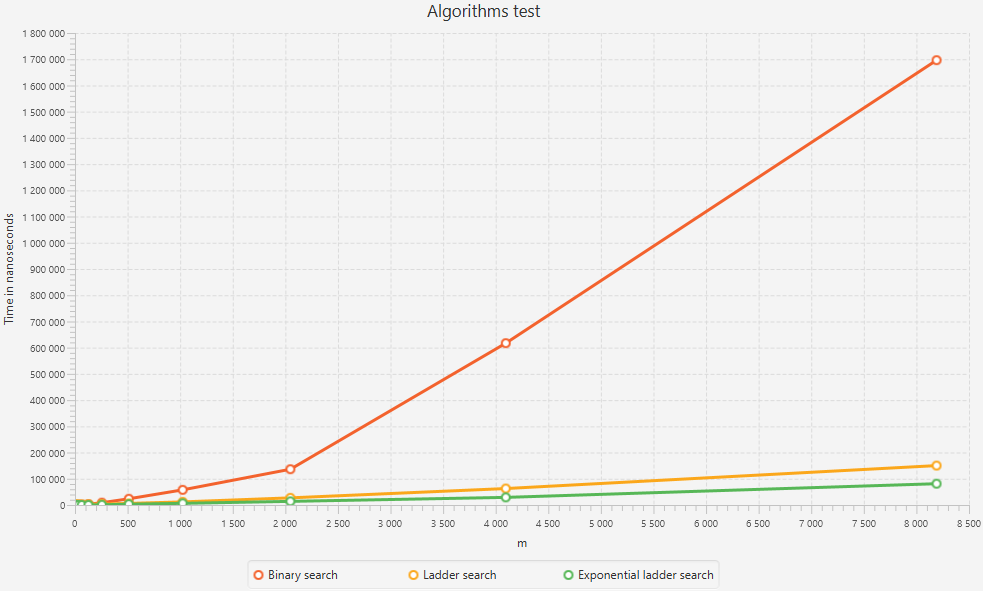
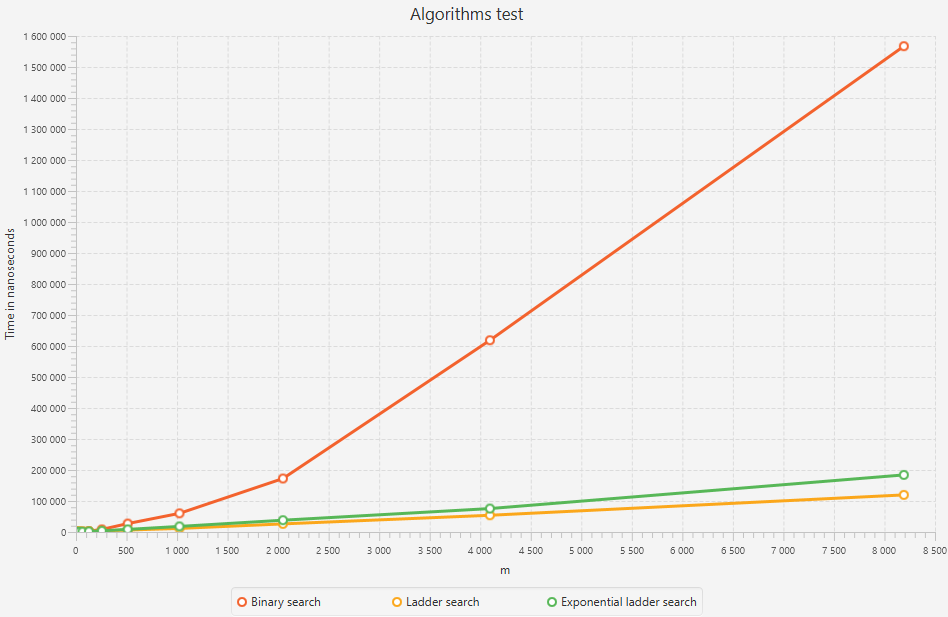
fix

diff --git a/src/main/java/ru/ns/alg_lab/Main.java b/src/main/java/ru/ns/alg_lab/Main.java
@@ -82,11 +82,11 @@ public class Main extends Application {
      * Test each search algorithm and results into chart.
      **/
     private static void testAlgosAndAddResultToChart(LineChart<Number, Number> lineChart) {
-        int times = 1000;
+        int times = 50000000;
 
-        runTestsForAlgo(Algorithms::basicBinary, times);
-        runTestsForAlgo(Algorithms::ladder, times);
-        runTestsForAlgo(Algorithms::expLadder, times);
+        runTestsForAlgo(Algorithms::basicBinary, 10);
+        runTestsForAlgo(Algorithms::ladder, 10);
+        runTestsForAlgo(Algorithms::expLadder, 10);
 
         List<Pair<Number, Number>> binaryChart = runTestsForAlgo(Algorithms::basicBinary, times);
         List<Pair<Number, Number>> ladderChart = runTestsForAlgo(Algorithms::ladder, times);
@@ -104,7 +104,7 @@ public class Main extends Application {
      * @return list of (input data amount -> algorithm's execution time)
      */
     private static List<Pair<Number, Number>> runTestsForAlgo(SearchAlgo algo, int times) {
-        int maxDegree = 13;
+        int maxDegree = 5;
         int n = (int) Math.pow(2, maxDegree);
 
         List<Pair<Number, Number>> chart = new ArrayList<>();

diff --git a/src/main/java/ru/ns/alg_lab/Algorithms.java b/src/main/java/ru/ns/alg_lab/Algorithms.java
@@ -72,6 +72,9 @@ public class Algorithms {
         int left = Math.max(0, x - i);
 
         int index = Arrays.binarySearch(arr[y], left, right, value);
-        return Math.max(index, 0);
+        if(index < 0) {
+            return -index - 2;
+        }
+        return index;
     }
 }

diff --git a/README.md b/README.md
@@ -35,8 +35,13 @@
    get_type - Способ генерации входных данных (1 или 2)
 
 ## Способ 1
-Вообщем картина выглядит так. При увеличение данных бинарный поиск начинает сильно отставать от остальных.
-Так же лестничный и с експоненциальных идут довольно близко но можно заметить, что экспоненциальный медленне увеличивает 
-время исполнение чем просто лестничный. ![chart](first_approach_overall.png)
+При генерации таблицы по первой формуле A[i][j] = (N / M * i + j) * 2. В общем картина выглядит так.
+![first_chart_overall](first_approach_overall.png)
+Как можно заметить при увеличении данных бинарный поиск сильно отстает. Так же при увеличении таблица становится более квадратной, за счет чего экспоненциальному поиску приходиться вызывать поиск по горизонтале все чаще и чаще, поэтому обычный ладдер его обганяет.
+Не смотря на то что при малых данных экспоненциальный поиск должен быть быстрее, как мы видим он отстает, скорее всего из за погрешности низкоуровневых операций.
+![first_chart_closer](first_approach_closer.png)
 ## Способ 2
-При втором способе картина мало чем отличается от первого. ![char](second_approach_overall.png)
+При втором способе картина относительно бинарного поиска мало чем отличается. Однако ладдер и экспоненциальный идут вместе. Так как искомый элемент больше любого элемента в массиве, при поиске мы постоянно смещаемся вниз и экспоненциальный поиск по горизонтали не вызывается, что делает их индентичными.
+![second_chart_overall](second_approach_overall.png)
+На малых данных результаты не отличается  от первого способа.
+![second_chart_closer](second_approach_closer.png)
